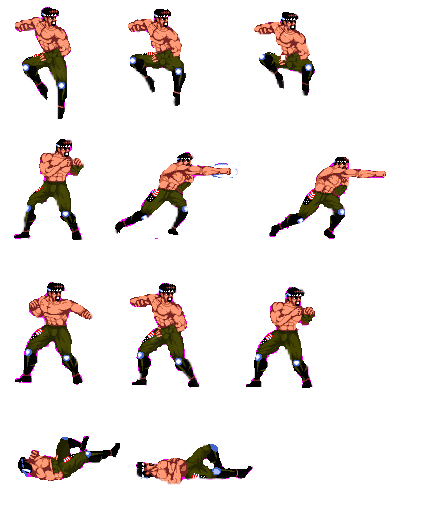
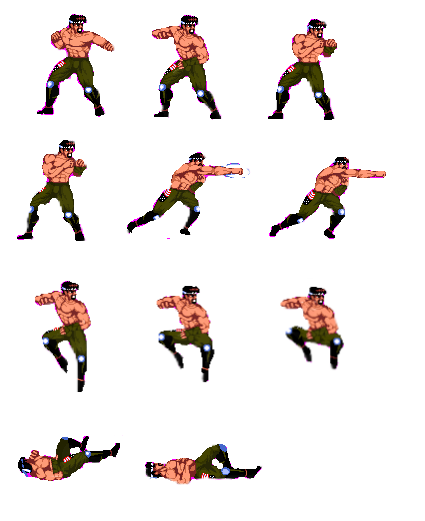
Обновления

diff --git a/main.py b/main.py
@@ -1,21 +1,23 @@
 import pygame
 
 class Fighter():
-    def __init__(self, x, y, data, sprite, steps):
+    def __init__(self, x, y, flip, data, sprite, steps):
         self.size = data[0]
         self.imagescale = data[1]
         self.offset = data[2]
         self.animationlist = self.images(sprite, steps)
         self.action = 0
         self.frame = 0
+        self.update = pygame.time.get_ticks()
         self.image = self.animationlist[self.action][self.frame]
-        self.flip = False
+        self.flip = flip
         self.rect = pygame.Rect((x, y, 80, 180))
         self.yspeed = 0
         self.jumppossibility = False
         self.attackoption = 0
         self.attacking = False
         self.xp = 100
+        self.running = False
 
     def images(self, sprite, steps):
         animationlist = []
@@ -33,24 +35,48 @@ class Fighter():
         surface.blit(img, (self.rect.x - (self.offset[0] * self.imagescale), self.rect.y - - (self.offset[1] * self.imagescale)))
 
     def attack(self, surface, target):
-        self.attacking = True
+        self.attacking = False
         attackingrect = pygame.Rect(self.rect.centerx - (2 * self.rect.width * self.flip), self.rect.y, 2 * self.rect.width, self.rect.height)
         pygame.draw.rect(surface, (255, 0, 0), attackingrect)
         if attackingrect.colliderect(target.rect):
-            target.xp -= 10
+            target.xp -= 1
+
+    def updating(self):
+        if self.attacking is True:
+            if self.attackingtype == 1:
+                self.update_action(3)
+        elif self.jumppossibility == True:
+            self.update_action(2)
+        elif self.running == True:
+            self.update_action(1)
+        else:
+            self.update_action(0)
+        animationcooldown = 500
+        self.image = self.animationlist[self.action][self.frame]
+        if pygame.time.get_ticks() - self.update > animationcooldown:
+            self.frame += 1
+            self.update = pygame.time.get_ticks()
+        if self.frame >= len(self.animationlist[self.action]):
+            self.frame = 0
+            if self.action == 3:
+                self.attacking = False
 
     def moving(self, surface, target):
         speed = 8
         xcoor = 0
         ycoor = 0
         grav = 2
+        self.running = False
+        self.attackingtype = 0
         key = pygame.key.get_pressed()
 
         if self.attacking is False:
             if key[pygame.K_LEFT]:
                 xcoor = -speed
+                self.running = True
             if key[pygame.K_RIGHT]:
                 xcoor = speed
+                self.running = True
             if key[pygame.K_UP] and self.jumppossibility is False:
                 self.yspeed = -30
                 self.jumppossibility = True
@@ -80,3 +106,10 @@ class Fighter():
 
         self.rect.x += xcoor
         self.rect.y += ycoor
+
+    def update_action(self, newaction):
+        if newaction != self.action:
+            self.action = newaction
+            self.frame = 0
+            self.update = pygame.time.get_ticks()
+

diff --git a/level2.py b/level2.py
@@ -13,7 +13,7 @@ clock = pygame.time.Clock()
 
 codysize = 110
 codyscale = 2
-codyoffset = [35, -5]
+codyoffset = [35, -15]
 codydata = [codysize, codyscale, codyoffset]
 shadowsize = 95
 shadowscale = 2
@@ -38,8 +38,8 @@ def xp_bar(xp, x, y):
     pygame.draw.rect(screen, (255, 255, 0), (x, y, 400 * ratio, 30))
 
 
-firstfighter = Fighter(200, 310, codydata, cody_sheet, codysteps)
-secondfighter = Fighter(700, 310, shadowdata, shadow_sheet, shadowsteps)
+firstfighter = Fighter(200, 310, False, codydata, cody_sheet, codysteps)
+secondfighter = Fighter(700, 310, True, shadowdata, shadow_sheet, shadowsteps)
 
 
 
@@ -53,6 +53,8 @@ while action:
 
     firstfighter.moving(screen, secondfighter)
     #secondfighter.moving()
+    firstfighter.updating()
+    secondfighter.updating()
     firstfighter.draw(screen)
     secondfighter.draw(screen)
 
